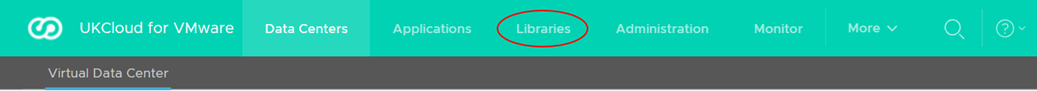
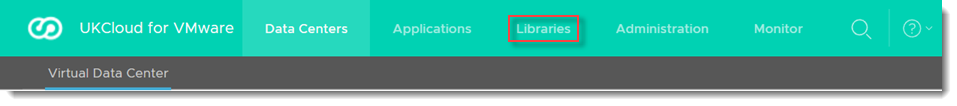
Review VMware articles - Nov/Dec

diff --git a/articles/vmware/vmw-how-upload-media-iso-flp.md b/articles/vmware/vmw-how-upload-media-iso-flp.md
@@ -4,7 +4,7 @@ description: Shows you how to upload ISO (CD/DVD) and FLP (floppy disk) media wi
 services: vmware
 author: shighmoor
 reviewer: shighmoor
-lastreviewed: 06/11/2020
+lastreviewed: 21/12/2021
 
 toc_rootlink: How To
 toc_sub1:
@@ -20,7 +20,7 @@ toc_mdlink: vmw-how-upload-media-iso-flp.md
 
 ## Overview
 
-You may find you need to upload ISO (DVD/CD) or FLP (floppy disk) media to vCloud that have already been provided by UKCloud. These media can then:
+You may find you need to upload ISO (DVD/CD) or FLP (floppy disk) media to VMware Cloud Director that have already been provided by UKCloud. These media can then:
 
 - Be consumed by users within your organisation
 
@@ -28,7 +28,7 @@ You may find you need to upload ISO (DVD/CD) or FLP (floppy disk) media to vClou
 
 ## Uploading ISO or FLP media
 
-1. In VMware Cloud Director, click the menu icon and select **Libraries**.
+1. In VMware Cloud Director, in the top menu, select **Libraries**.
 
     ![Libraries menu option in VMware Cloud Director](images/vmw-vcd10.1-mnu-libraries.png)
 
@@ -38,7 +38,7 @@ You may find you need to upload ISO (DVD/CD) or FLP (floppy disk) media to vClou
 
 3. Click **Add**.
 
-    ![Upload media button](images/vmw-vcd-btn-add-media.png)
+    ![Add media button](images/vmw-vcd10.1-btn-add-media.png)
 
 4. In the *Upload Media* dialog box, select the **Catalog** to which you want to upload the media.
 
